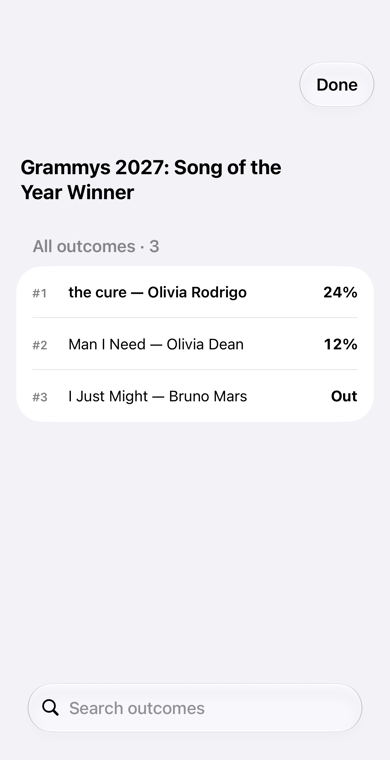
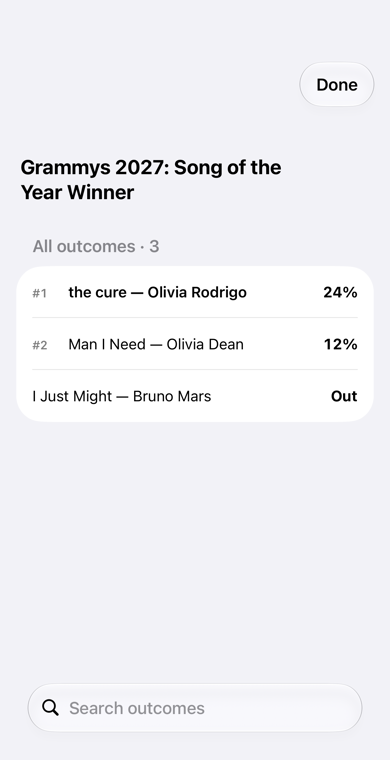
Keep terminal Grammy grades compatible and omit Out ranks

Changed region(s): [[0.0923, 0.5145, 0.6462, 0.5447]]

diff --git a/frontend/components/futures/OutcomeRow.tsx b/frontend/components/futures/OutcomeRow.tsx
@@ -448,6 +448,7 @@ export default function OutcomeRow({
   // it — never `isResolved && outcome.is_winner === X`, which counts a defaulted
   // `false` as a grader's verdict.
   const verdict = outcomeRowVerdict(outcome, isResolved);
+  const isOut = outcome.is_out === true;
   const noCurrentPrice = !isResolved && verdict === null && outcome.probability == null;
   // #698 — a settled row with NO result to state. Not the ungraded/live
   // fallback below: it says "Result unknown", labels a finite price as the LAST
@@ -455,7 +456,7 @@ export default function OutcomeRow({
   // stops wearing the leader's amber — on `/futures/62134744` the "leader" was
   // one side of a 50/50 tie on a finished match.
   const resultUnknown = isResultUnknown(outcome, isResolved);
-  const leads = isLeader && !resultUnknown;
+  const leads = isLeader && !resultUnknown && !isOut;
 
   // #6325 — A SETTLED BOARD DOES NOT NUMBER ITSELF.
   //
@@ -491,7 +492,7 @@ export default function OutcomeRow({
   // market (#6082) keeps its badges, because that board is still being priced. The
   // card's own row (`FuturesCard.tsx:291`) is a different component whose badge is
   // positional for every row, so it cannot collide and is not this defect.
-  const printsRank = !isResolved;
+  const printsRank = !isResolved && !isOut;
 
   // Entity image detection. #4483: the non-sports test alone was the bug — it
   // asks "could this name have a Wikipedia picture?" and a threshold answers yes.
@@ -740,12 +741,14 @@ export default function OutcomeRow({
               settlement is self-justifying), so `verdict` is no longer always
               null when `!isResolved` — keyed off `isResolved` this label would
               now print "Latest" directly above a `100% / Settled` cell. */}
-          {verdict === null && !noCurrentPrice && !(resultUnknown && outcome.probability == null) && (
+          {!isOut && verdict === null && !noCurrentPrice && !(resultUnknown && outcome.probability == null) && (
             <div className="text-[10px] uppercase tracking-wide text-text-muted">
               {resultUnknown ? "Last recorded" : "Latest"}
             </div>
           )}
-          {verdict === "won" ? (
+          {isOut ? (
+            <div className="text-xs text-text-secondary">Out</div>
+          ) : verdict === "won" ? (
             <>
               <div className="font-mono text-base tabular-nums font-bold text-emerald-600">
                 100%
@@ -768,7 +771,7 @@ export default function OutcomeRow({
               data-testid="outcome-current-unavailable"
               className="text-xs text-text-secondary"
             >
-              {outcome.is_out === true ? "Out" : "No current price"}
+              No current price
             </div>
           ) : (
             <>

diff --git a/ios/Bain Luck/Bain Luck/Components/FuturesAtlasPresentation11666.swift b/ios/Bain Luck/Bain Luck/Components/FuturesAtlasPresentation11666.swift
@@ -786,9 +786,10 @@ enum FuturesAtlasPresentation11666 {
         let selectedOutcome = market.outcomes.first(where: { $0.id == presentation.header.selectedOutcomeId })
             ?? futuresDetailHeroOutcome(market)
         let effectiveProbability: Double?
-        if case .noRecentProbability = presentation.header.primaryDisplay {
+        switch presentation.header.primaryDisplay {
+        case .noRecentProbability, .out:
             effectiveProbability = nil
-        } else {
+        default:
             effectiveProbability = selectedOutcome?.probability
         }
         return VerifiedTitleChartExpectation(
@@ -1838,7 +1839,7 @@ struct FuturesAtlasBodyCardView11666: View {
                 if dynamicTypeSize.isAccessibilitySize {
                     VStack(alignment: .leading, spacing: 4) {
                         HStack(spacing: 6) {
-                            if showRank {
+                            if showRank && row.displayValue != .out {
                                 Text("#\(row.rank)")
                                     .font(.caption.weight(.semibold).monospacedDigit())
                                     .foregroundStyle(isFirst ? DS.emerald : DS.textMuted)
@@ -1866,7 +1867,7 @@ struct FuturesAtlasBodyCardView11666: View {
                     }
                 } else {
                     HStack(alignment: .firstTextBaseline, spacing: 8) {
-                        if showRank {
+                        if showRank && row.displayValue != .out {
                             Text("#\(row.rank)")
                                 .font(.caption.weight(.semibold).monospacedDigit())
                                 .foregroundStyle(isFirst ? DS.emerald : DS.textMuted)
@@ -2104,7 +2105,7 @@ struct FuturesAtlasFullFieldSheetView11666: View {
                             onSelectOutcome(row.id)
                         } label: {
                             HStack(alignment: .firstTextBaseline, spacing: 8) {
-                                if showsRank {
+                                if showsRank && row.displayValue != .out {
                                     Text("#\(row.rank)")
                                         .font(.caption.weight(.semibold).monospacedDigit())
                                         .foregroundStyle(.secondary)

diff --git a/ios/Bain Luck/Bain Luck/Views/FuturesDetailView.swift b/ios/Bain Luck/Bain Luck/Views/FuturesDetailView.swift
@@ -922,14 +922,17 @@ struct FuturesDetailView: View {
         marketStatus: String?,
         marketSource: String?
     ) -> some View {
-        let isLeader = outcome.id == leaderId
+        let isOut = outcome.isOut == true
+        let isLeader = !isOut && outcome.id == leaderId
         let probPct = (outcome.probability ?? 0) * 100
         // #10964: a graded row names its result instead of its last quote.
-        let value = FuturesDetailRowValue.of(outcome, marketStatus: marketStatus, marketSource: marketSource)
+        let value: FuturesDetailRowValue = isOut
+            ? .none
+            : .of(outcome, marketStatus: marketStatus, marketSource: marketSource)
 
         return VStack(spacing: 6) {
             HStack(alignment: .top) {
-                if showsRank {
+                if showsRank && !isOut {
                     // Rank number
                     Text("#\(rank)")
                         .font(.system(size: 13, weight: .semibold, design: .monospaced))
@@ -1022,7 +1025,7 @@ struct FuturesDetailView: View {
                     }
                     .multilineTextAlignment(.trailing)
                 case .none:
-                    if outcome.isOut == true {
+                    if isOut {
                         Text("Out")
                             .font(.system(size: 15, weight: .medium))
                             .foregroundStyle(DS.textSecondary)

diff --git a/ios/Bain Luck/BainLuckTests/FullFieldSheetTitle13127Tests.swift b/ios/Bain Luck/BainLuckTests/FullFieldSheetTitle13127Tests.swift
@@ -115,7 +115,7 @@ final class FullFieldSheetTitle13127Tests: XCTestCase {
           "status": "open",
           "mutually_exclusive": true,
           "outcomes": [
-            {"id": 217003204, "name": "I Just Might — Bruno Mars", "probability": null,
+            {"id": 217003204, "name": "I Just Might — Bruno Mars", "probability": 0.0,
              "is_winner": false, "resolution_source": "api_settlement", "is_out": true},
             {"id": 217003206, "name": "the cure — Olivia Rodrigo", "probability": 0.2405},
             {"id": 217003202, "name": "Man I Need — Olivia Dean", "probability": 0.1165}
@@ -142,6 +142,10 @@ final class FullFieldSheetTitle13127Tests: XCTestCase {
             onSelectOutcome: { _ in }
         )
         let image = try await captureSheetSnapshot(sheet, scheme: .light)
+        let text = try recognizeLines(in: image).joined(separator: " ")
+        XCTAssertTrue(text.contains("Out"))
+        XCTAssertFalse(text.contains("#3"))
+
         let attachment = XCTAttachment(image: image)
         attachment.name = "13127-grammys-out-390"
         attachment.lifetime = .keepAlways

diff --git a/frontend/lib/api.ts b/frontend/lib/api.ts
@@ -1022,7 +1022,17 @@ export async function fetchFuturesMarket(
   const qs = params.toString();
   const detail = await apiFetch<FuturesMarketDetailResponse>(`/api/futures/${id}${qs ? `?${qs}` : ""}`,
     options?.fresh ? { cache: "no-store", maxRetries: 0, signal: options.signal } : undefined);
-  return verified ? sanitizeVerifiedTitleDetail(detail) : detail;
+  // Out rows carry a terminal value for installed apps. The web uses their
+  // grade for display and excludes that value from current-price calculations.
+  const visibleDetail = detail.outcomes?.some((outcome) => outcome.is_out === true)
+    ? {
+        ...detail,
+        outcomes: detail.outcomes.map((outcome) =>
+          outcome.is_out === true ? { ...outcome, probability: null } : outcome,
+        ),
+      }
+    : detail;
+  return verified ? sanitizeVerifiedTitleDetail(visibleDetail) : visibleDetail;
 }
 
 /**

diff --git a/frontend/__tests__/components/futuresOutcomeRowUngradedVerdict4788.test.tsx b/frontend/__tests__/components/futuresOutcomeRowUngradedVerdict4788.test.tsx
@@ -431,7 +431,7 @@ test("an eliminated contender on an open field prints only Out as its value", ()
   const row = render(
     outcome({
       name: "I Just Might — Bruno Mars",
-      probability: null,
+      probability: 0,
       opening_probability: null,
       probability_change_24h: null,
       is_out: true,
@@ -441,7 +441,7 @@ test("an eliminated contender on an open field prints only Out as its value", ()
     false,
   );
   expect(row).toContain(">Out<");
-  expect(row).not.toContain(">%<");
   expect(row).not.toContain("outcome-price");
+  expect(row).not.toContain("outcome-rank-badge");
   expect(row).not.toContain("No current price");
 });

diff --git a/backend/app/routes/futures.py b/backend/app/routes/futures.py
@@ -10747,6 +10747,7 @@ def _format_market_detail(
     from app.utils.event_awards import GRAMMY_GENERAL_FIELD_POLYMARKET_IDS
     from app.utils.field_opening_coherence import field_openings_publishable
     from app.utils.graded_out_field_legs import TERMINAL_LOSER_CEILING
+    from app.utils.settled_price import SETTLED_NO_PRICE
     from app.utils.odds_api_retirement import NOT_LIVE_STATUSES, WITHDRAWN_STATUS
     from app.utils.market_staleness import (
         expired_ladder_rungs,
@@ -11424,6 +11425,7 @@ def _format_market_detail(
                 row["is_out"] = True
                 for field in (
                     *WITHHELD_PRICE_FIELDS,
+                    "rank",
                     "rank_change_24h",
                     "opening_probability",
                     "opening_american_odds",
@@ -11705,8 +11707,8 @@ def _format_market_detail(
     #
     # Prices and eligibility are untouched by design — this only overwrites the one
     # field whose whole job is to say where the row sits, using the list it sits in.
-    outcomes.extend(eliminated)
     assign_display_ranks(outcomes)
+    outcomes.extend(eliminated)
 
     # The source price is the selected stored input, before field normalization.
     # Withheld values and unresolved results keep an explicit refusal.
@@ -11917,6 +11919,11 @@ def _format_market_detail(
         )
     except Exception:
         pass
+
+    # Installed clients still read probability for a graded No on an open
+    # field. Supply the terminal value only after ranking and price checks.
+    for row in eliminated:
+        row["probability"] = float(SETTLED_NO_PRICE)
 
     return {
         "id": market.id,

diff --git a/backend/tests/test_polymarket_grammy_resolved_legs_13127.py b/backend/tests/test_polymarket_grammy_resolved_legs_13127.py
@@ -137,11 +137,14 @@ def test_detail_puts_the_graded_grammy_loss_after_contenders(external_id):
     eliminated = rows[2]
     if external_id == "805158":
         assert response["outcomes"][-1]["id"] == 2
+        from app.utils.settled_price import SETTLED_NO_PRICE
+
         assert eliminated["is_out"] is True
+        assert eliminated["probability"] == float(SETTLED_NO_PRICE)
         assert eliminated["source_mark"]["settled"]["result"] == "Out"
         assert eliminated["source_mark"]["settled"]["at"] is None
         for field in (
-            "probability", "american_odds", "opening_probability",
+            "rank", "rank_change_24h", "american_odds", "opening_probability",
             "probability_change_24h", "last_updated", "price_changed_at",
         ):
             assert eliminated[field] is None
